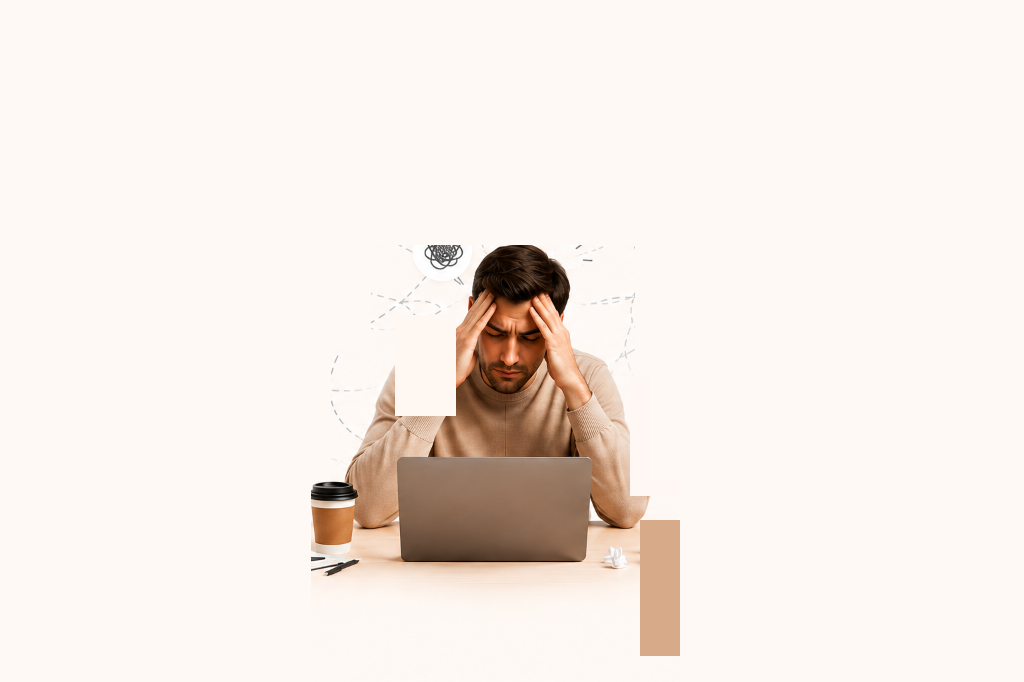
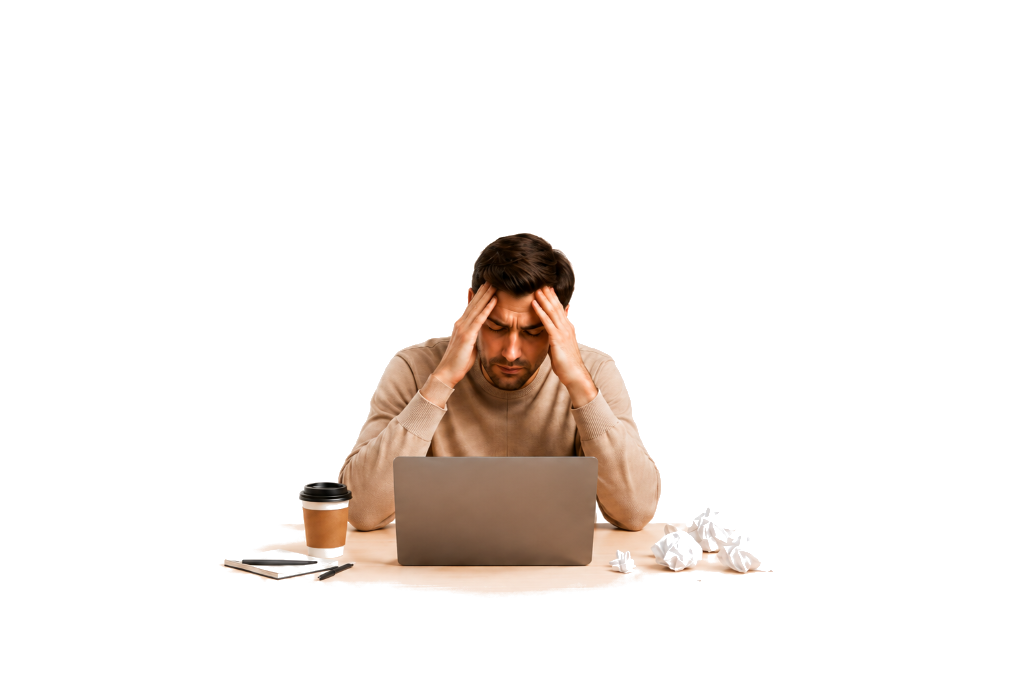
feat: replace left-side image with new clean stressed man asset

Changed region(s): [[0.2188, 0.3387, 0.75, 0.9853], [0.375, 0.4311, 0.4062, 0.4619]]

diff --git a/index.html b/index.html
@@ -82,7 +82,7 @@
             <!-- Center Visual: Stressed Man -->
             <div class="visual-center">
               <div class="stressed-image-wrapper">
-                <img src="assets/stressed_man_clean.png?v=3" alt="Stressed businessman at laptop" class="stressed-image">
+                <img src="assets/stressed_man_clean.png?v=4" alt="Stressed businessman at laptop" class="stressed-image">
                 <!-- SVG overlay for chaotic connection lines -->
                 <svg class="chaos-lines" viewBox="0 0 1024 682" xmlns="http://www.w3.org/2000/svg">
                   <!-- Curved lines pointing from floating tags to the head (500, 320) -->